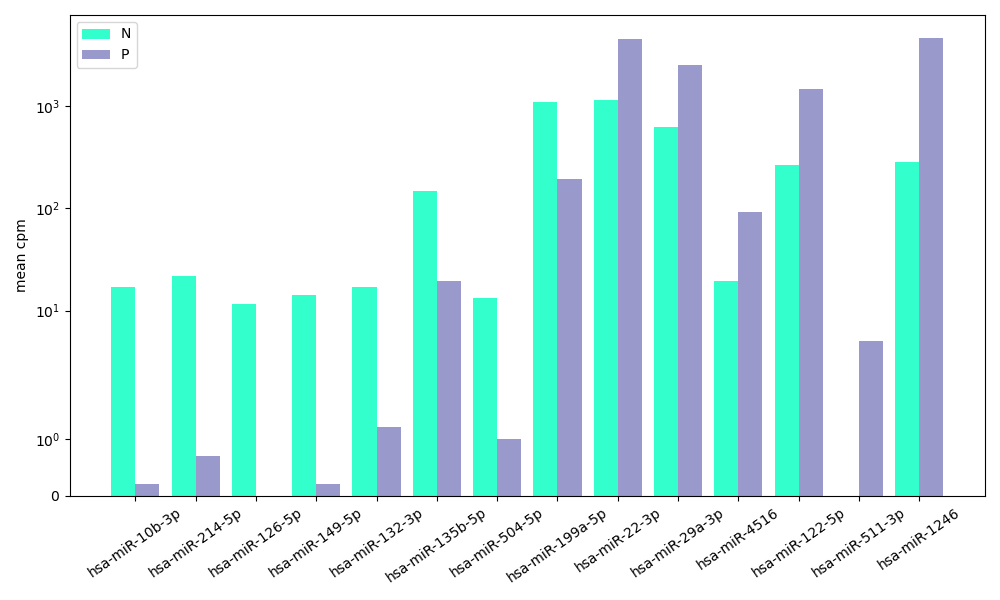
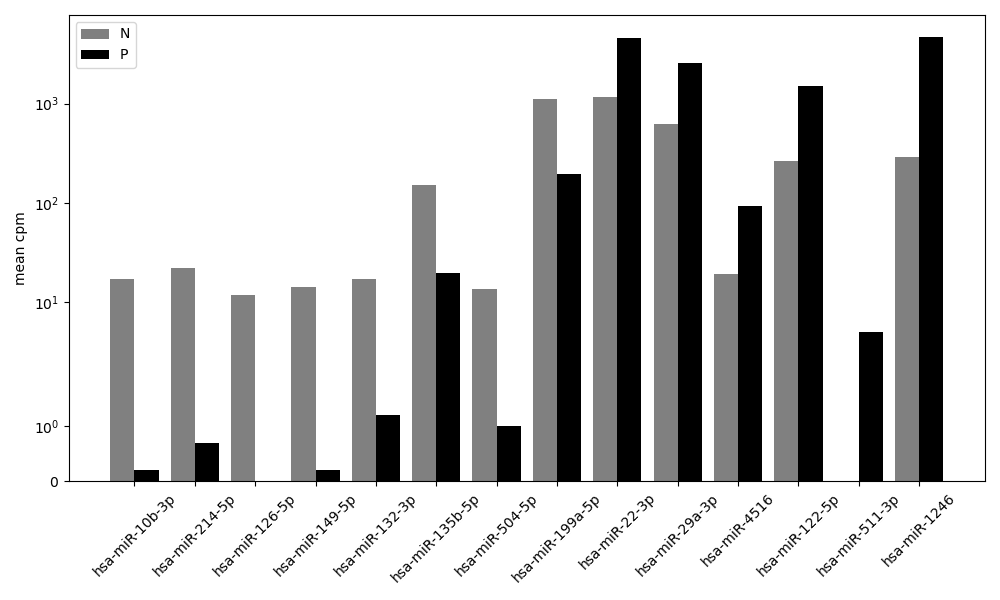
add

diff --git a/src/fig2.py b/src/fig2.py
@@ -13,12 +13,12 @@ class Fig2(BaseFig):
         p_mean_cpm = df.loc[:, "P_mean_CPM"]
         plt.figure(figsize=(10, 6))  # 宽度为8英寸，高度为6英寸
         plt.bar(x=[i - col_width / 2 + 1 for i in range(len(n_mean_cpm))], height=n_mean_cpm, width=col_width,
-                label="N", color="#33ffcc")
+                label="N", color="gray")
         plt.bar(x=[i + col_width / 2 + 1 for i in range(len(p_mean_cpm))], height=p_mean_cpm, width=col_width,
-                label="P", color="#9999cc")
+                label="P", color="black")
         plt.yscale('symlog')
         plt.ylabel('mean cpm')
-        plt.xticks([i + 1 for i in range(len(n_mean_cpm))], df.index.values, rotation=35)
+        plt.xticks([i + 1 for i in range(len(n_mean_cpm))], df.index.values, rotation=45)
         plt.legend()
         plt.tight_layout()
         plt.savefig(path.join(self.OUTPUT_DIR, f"{self.__class__.__name__}.png"))
